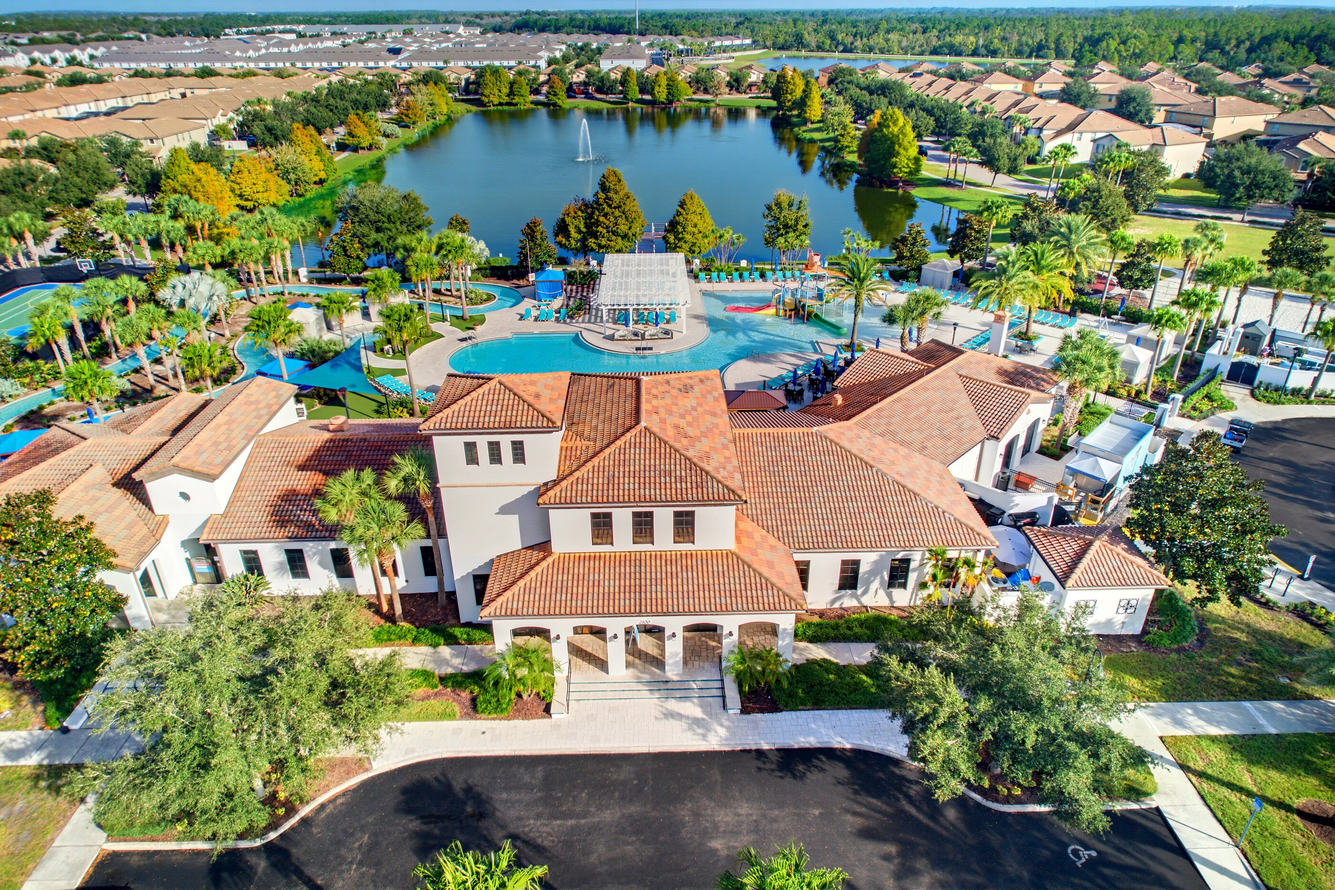
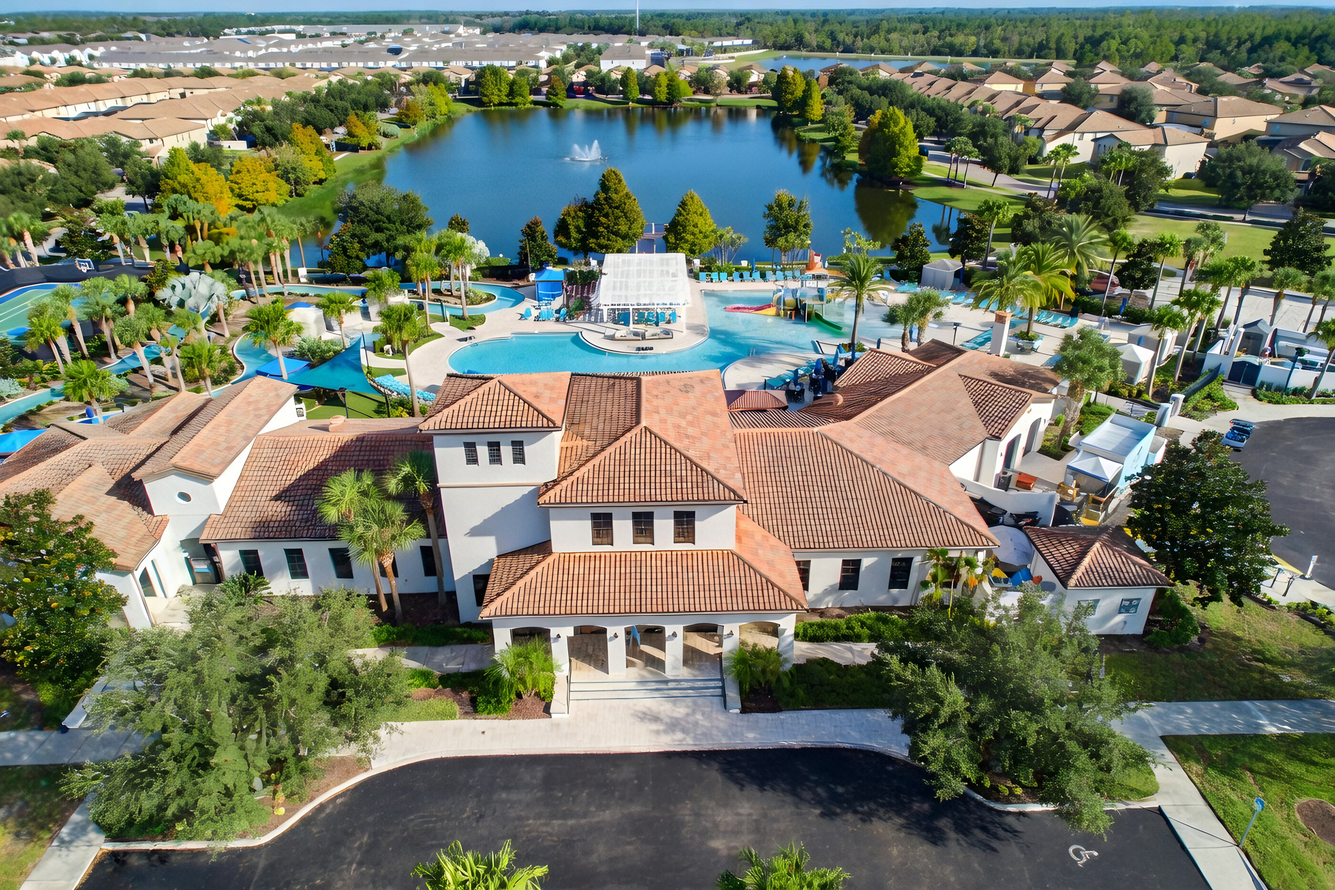
Add recommended extra shots: lazy river at sunset, enhanced clubhouse/lazy river aerials, lanai drinks, top-down aerial, cornhole

diff --git a/PLAN.md b/PLAN.md
@@ -208,7 +208,7 @@ Source of truth for house facts: the owners' **Dream Haven Welcome Book** (PDF, 
 | Drive times | ✅ OpenStreetMap routing (Oct 2026) + Welcome Book |
 | Resort amenities & hours | ✅ From the Welcome Book |
 | Logo | ✅ Received (wide + square sticker). Ask designer for transparent PNG/SVG if available |
-| Photos | ✅ Professional shoot added 2026-11-19 (97 photos; originals in `8875 Qin Loop full size/`, git-ignored). Still placeholder: Explore/area photos, resort Tu Casa, Fitness Center, Phase 3 pool. Bedroom 3–6 photo matching to confirm with owner |
+| Photos | ✅ Professional shoot added 2026-11-19 (102 photos; originals in `8875 Qin Loop full size/`, git-ignored). Still placeholder: Explore/area photos, resort Tu Casa, Fitness Center, Phase 3 pool. Bedroom 3–6 photo matching to confirm with owner |
 | Visitor stats (GoatCounter / Cloudflare) | Skipped for now (owner). Off |
 | GitHub repo | ✅ github.com/Ctr1cCtr1v/dreamhavenvillas (public), Pages via Actions |
 | Domain | ✅ dreamhavenvillas.com → GitHub Pages (DNS at GoDaddy), verified. www HTTPS cert pending |
